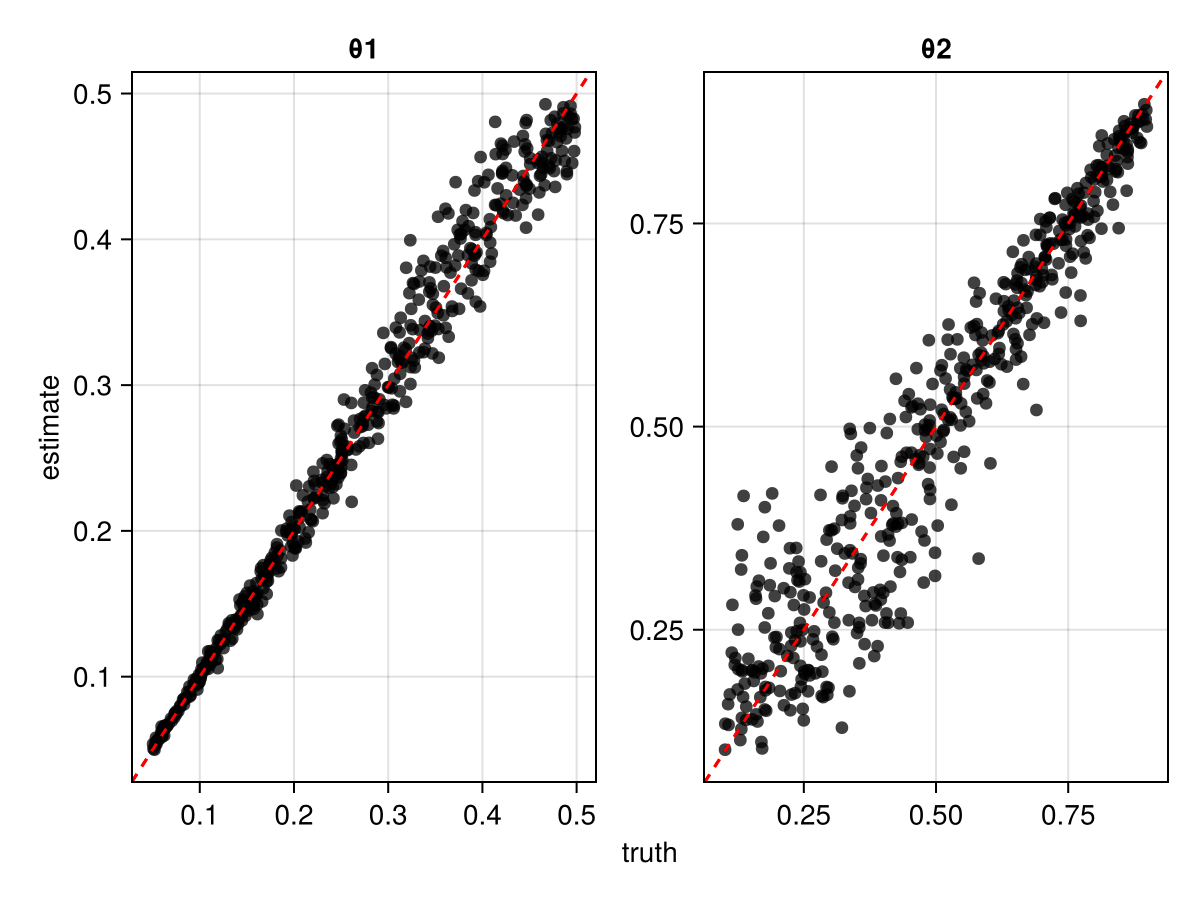
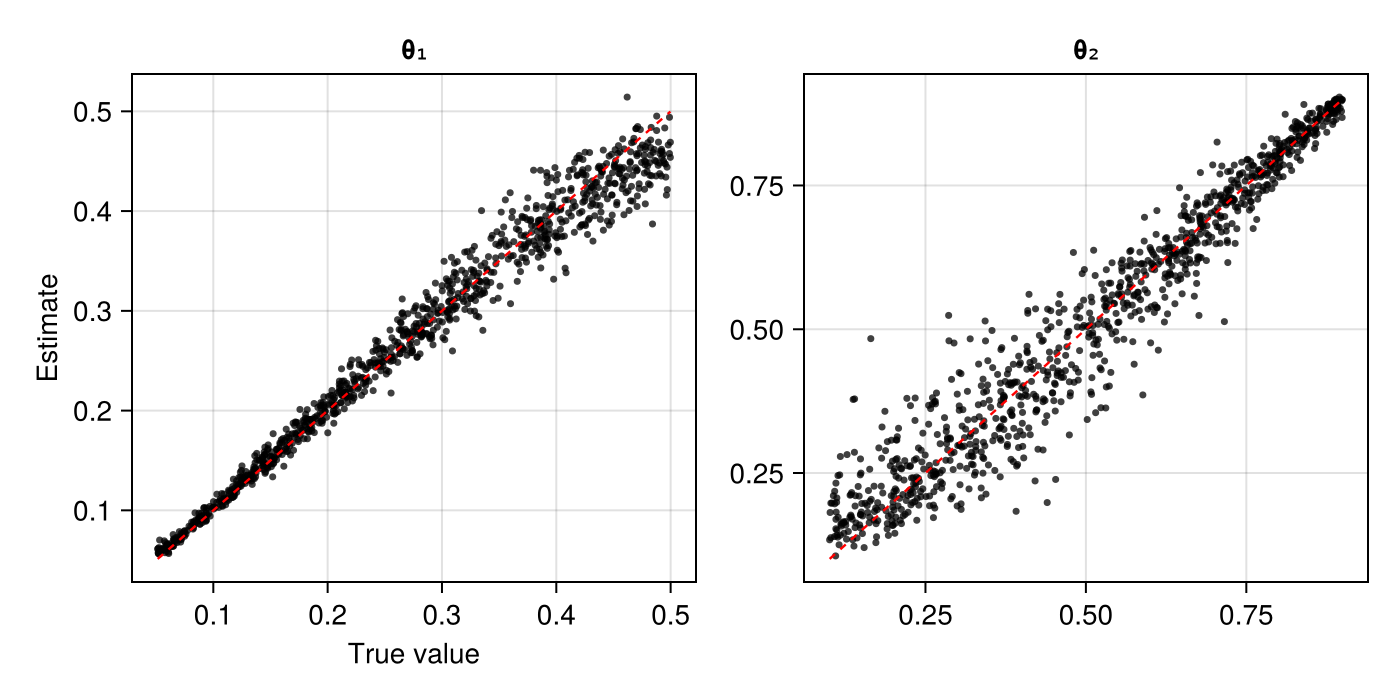
Removed SpecialFunctions.jl and updated spatio-temporal example

diff --git a/docs/src/examples/data_spatiotemporal.md b/docs/src/examples/data_spatiotemporal.md
@@ -95,8 +95,8 @@ function firstdifference(Z)
     getobs(Z, 2:numobs(Z)) - getobs(Z, 1:numobs(Z)-1)
 end
 
-# Simulate a single spatio-temporal field with T time steps
-function simulator(θ::AbstractVector, T::Integer; grid_size = 10)
+# Simulate a spatio-temporal field with T time steps
+function simulator(θ::AbstractVector, T::Integer; grid_size = 10, first_difference::Bool = true)
     ρ = θ["θ₁"]
     φ = θ["θ₂"]
 
@@ -117,10 +117,10 @@ function simulator(θ::AbstractVector, T::Integer; grid_size = 10)
 
     # Reshape into format required by our chosen architecture
     Z = reshape(Z, grid_size, grid_size, 1, T)
-    return firstdifference(Z)
+    return first_difference ? firstdifference(Z) : Z
 end
-simulator(θ::AbstractVector, T)         = simulator(θ, rand(T))
-simulator(θ::AbstractMatrix, T = 10:30) = Folds.map(ϑ -> simulator(ϑ, T), eachcol(θ))
+simulator(θ::AbstractVector, T; kwargs...) = simulator(θ, rand(T); kwargs...)
+simulator(θ::AbstractMatrix, T = 10:30; kwargs...) = Folds.map(ϑ -> simulator(ϑ, T; kwargs...), eachcol(θ))
 ```
 
 With this data format, the `DeepSet` inner network `ψ` processes each difference field $\boldsymbol{\Delta}_t$ independently, and the outer network `ϕ` maps the aggregated latent features to summary statistics:
@@ -145,9 +145,61 @@ num_summaries  = 3d  # number of summaries output by the network
     Dense(w, num_summaries),
 )
 network = DeepSet(ψ, ϕ)
-``` 
+```
 
+## Bonus: Visualizing spatio-temporal dependence
 
+Before initializing the neural estimator with our chosen neural-network architecture, let's simulate and visualize some realizations from the model. 
+
+We'll focus on the effect of the temporal range parameter, $\theta_2$, which controls the strength of temporal persistence through time. Smaller values produce weaker temporal memory, while larger values induce stronger persistence across successive fields.
+
+```julia
+# Fix θ₁, vary θ₂
+θ = NamedMatrix(
+    θ₁ = [0.3, 0.3],
+    θ₂ = [0.1, 0.8]
+) 
+
+# Simulate several time steps
+Z = simulator(θ, 5; grid_size = 32, first_difference = false)
+
+labels = [
+    "Low temporal dependence (θ₂ = 0.1)",
+    "High temporal dependence (θ₂ = 0.8)"
+]
+
+fig = Figure(size = (1350, 600));
+
+for k in 1:2
+    Z_k = Z[k]
+    T = size(Z_k, 4)
+
+    for t in 1:T
+        ax = Axis(
+            fig[k, t],
+            title = t == 1 ? labels[k] : "t = $t",
+            aspect = DataAspect()
+        )
+
+        hidedecorations!(ax)
+
+        hm = heatmap!(
+            ax,
+            Z_k[:, :, 1, t],
+            colormap = :balance,
+            colorrange = (-2.5, 2.5)
+        )
+
+        if t == T
+            Colorbar(fig[k, T + 1], hm)
+        end
+    end
+end
+
+display(fig)
+```
+
+![Effect of temporal range](../assets/figures/spatiotemporal.png)
 
 ## Constructing the neural estimator
 
@@ -165,56 +217,6 @@ estimator = RatioEstimator(network, d; num_summaries = num_summaries)
 ```
 
 :::
-
-## Visualizing temporal dependence
-
-The temporal range parameter $\theta_2$ controls the strength of temporal persistence through time. Smaller values produce weaker temporal memory, while larger values induce stronger persistence across successive fields.
-
-The following code reproduces the temporal-dependence visualisation shown below.
-
-```julia
-# Fix θ₁ and vary θ₂
-θ_viz = Float32[0.3  0.3;
-                0.1  0.8]
-
-# Simulate 7 time steps, giving 6 first-difference fields
-Z_viz = simulator(θ_viz, 7:7)
-
-labels = [
-    "Low temporal dependence (θ₂ = 0.1)",
-    "High temporal dependence (θ₂ = 0.8)"
-]
-
-fig = Figure(size = (1800, 600))
-
-for k in 1:2
-    Z_k = Z_viz[k]
-    ntime_viz = size(Z_k, 4)
-
-    for t in 1:ntime_viz
-        ax = Axis(
-            fig[k, t],
-            title = t == 1 ? labels[k] : "Δt = $t",
-            aspect = DataAspect()
-        )
-
-        hidedecorations!(ax)
-
-        heatmap!(
-            ax,
-            Z_k[:, :, 1, t],
-            colormap = :balance,
-            colorrange = (-2.5, 2.5)
-        )
-    end
-end
-
-display(fig)
-```
-
-The resulting plot illustrates the effect of varying temporal dependence while holding the spatial range parameter fixed.
-
-![Effect of temporal range](../assets/figures/temporal_range.png)
 
 ## Training the estimator
 
@@ -249,24 +251,10 @@ The resulting `Assessment` object contains ground-truth parameters, estimates, a
 ```julia
 bias(assessment)    # θ₁ = ..., θ₂ = ...
 rmse(assessment)    # θ₁ = ..., θ₂ = ...
-```
-Example assessment diagnostics:
-
-![Assessment diagnostics](../assets/figures/spatiotemporal_assessment.png)
-
-
-The following code reproduces the assessment diagnostics shown below.
-
-```julia
-# Generate the built-in assessment plot
-fig_assessment = plot(assessment)
-display(fig_assessment)
+plot(assessment)
 ```
 
-The diagnostics illustrate parameter recovery and calibration behaviour of the estimator.
-
-![Assessment diagnostics](../assets/figures/spatiotemporal_assessment.png)
-
+![Recovery plot](../assets/figures/spatiotemporal_assessment.png)
 
 ## Applying the estimator to observed data
 

diff --git a/docs/src/advancedusage.md b/docs/src/advancedusage.md
@@ -367,8 +367,9 @@ As a running example, we consider a Gaussian process model where the data are co
 using NeuralEstimators, Flux
 using Distributions: Uniform
 using Distances, LinearAlgebra
-using Statistics: mean
 using MLUtils: flatten
+using SpecialFunctions: besselk, gamma
+using Statistics: mean
 
 # Prior and dimension of parameter vector
 Π = (τ = Uniform(0, 1.0), ρ = Uniform(0, 0.4))
@@ -388,6 +389,21 @@ struct Parameters <: AbstractParameterSet
 	L
 end
 
+# Matern covariance function
+function matern(h, ρ, ν, σ² = one(typeof(h)))
+
+    @assert h >= 0 "h should be non-negative"
+    @assert ρ > 0 "ρ should be positive"
+    @assert ν > 0 "ν should be positive"
+
+    if h == 0
+        σ²
+    else
+        d = h / ρ
+        σ² * ((2^(1 - ν)) / gamma(ν)) * d^ν * besselk(ν, d)
+    end
+end
+
 # Constructor for above struct
 function sample(K::Integer, ξ)
 
@@ -397,8 +413,13 @@ function sample(K::Integer, ξ)
 	ρ = rand(Π.ρ, K)
 	ν = 1 # fixed smoothness
 
-	# Compute Cholesky factors  
-	L = maternchols(ξ.D, ρ, ν)
+	# Compute Cholesky factors
+	L = map(1:K) do k
+		C = matern.(UpperTriangular(ξ.D), ρ[k], ν, 1)
+		L = cholesky(Symmetric(C)).L
+		convert(Array, L)
+	end
+	L = Base.stack(L)
 
 	# Concatenate into matrix
 	θ = permutedims(hcat(τ, ρ))